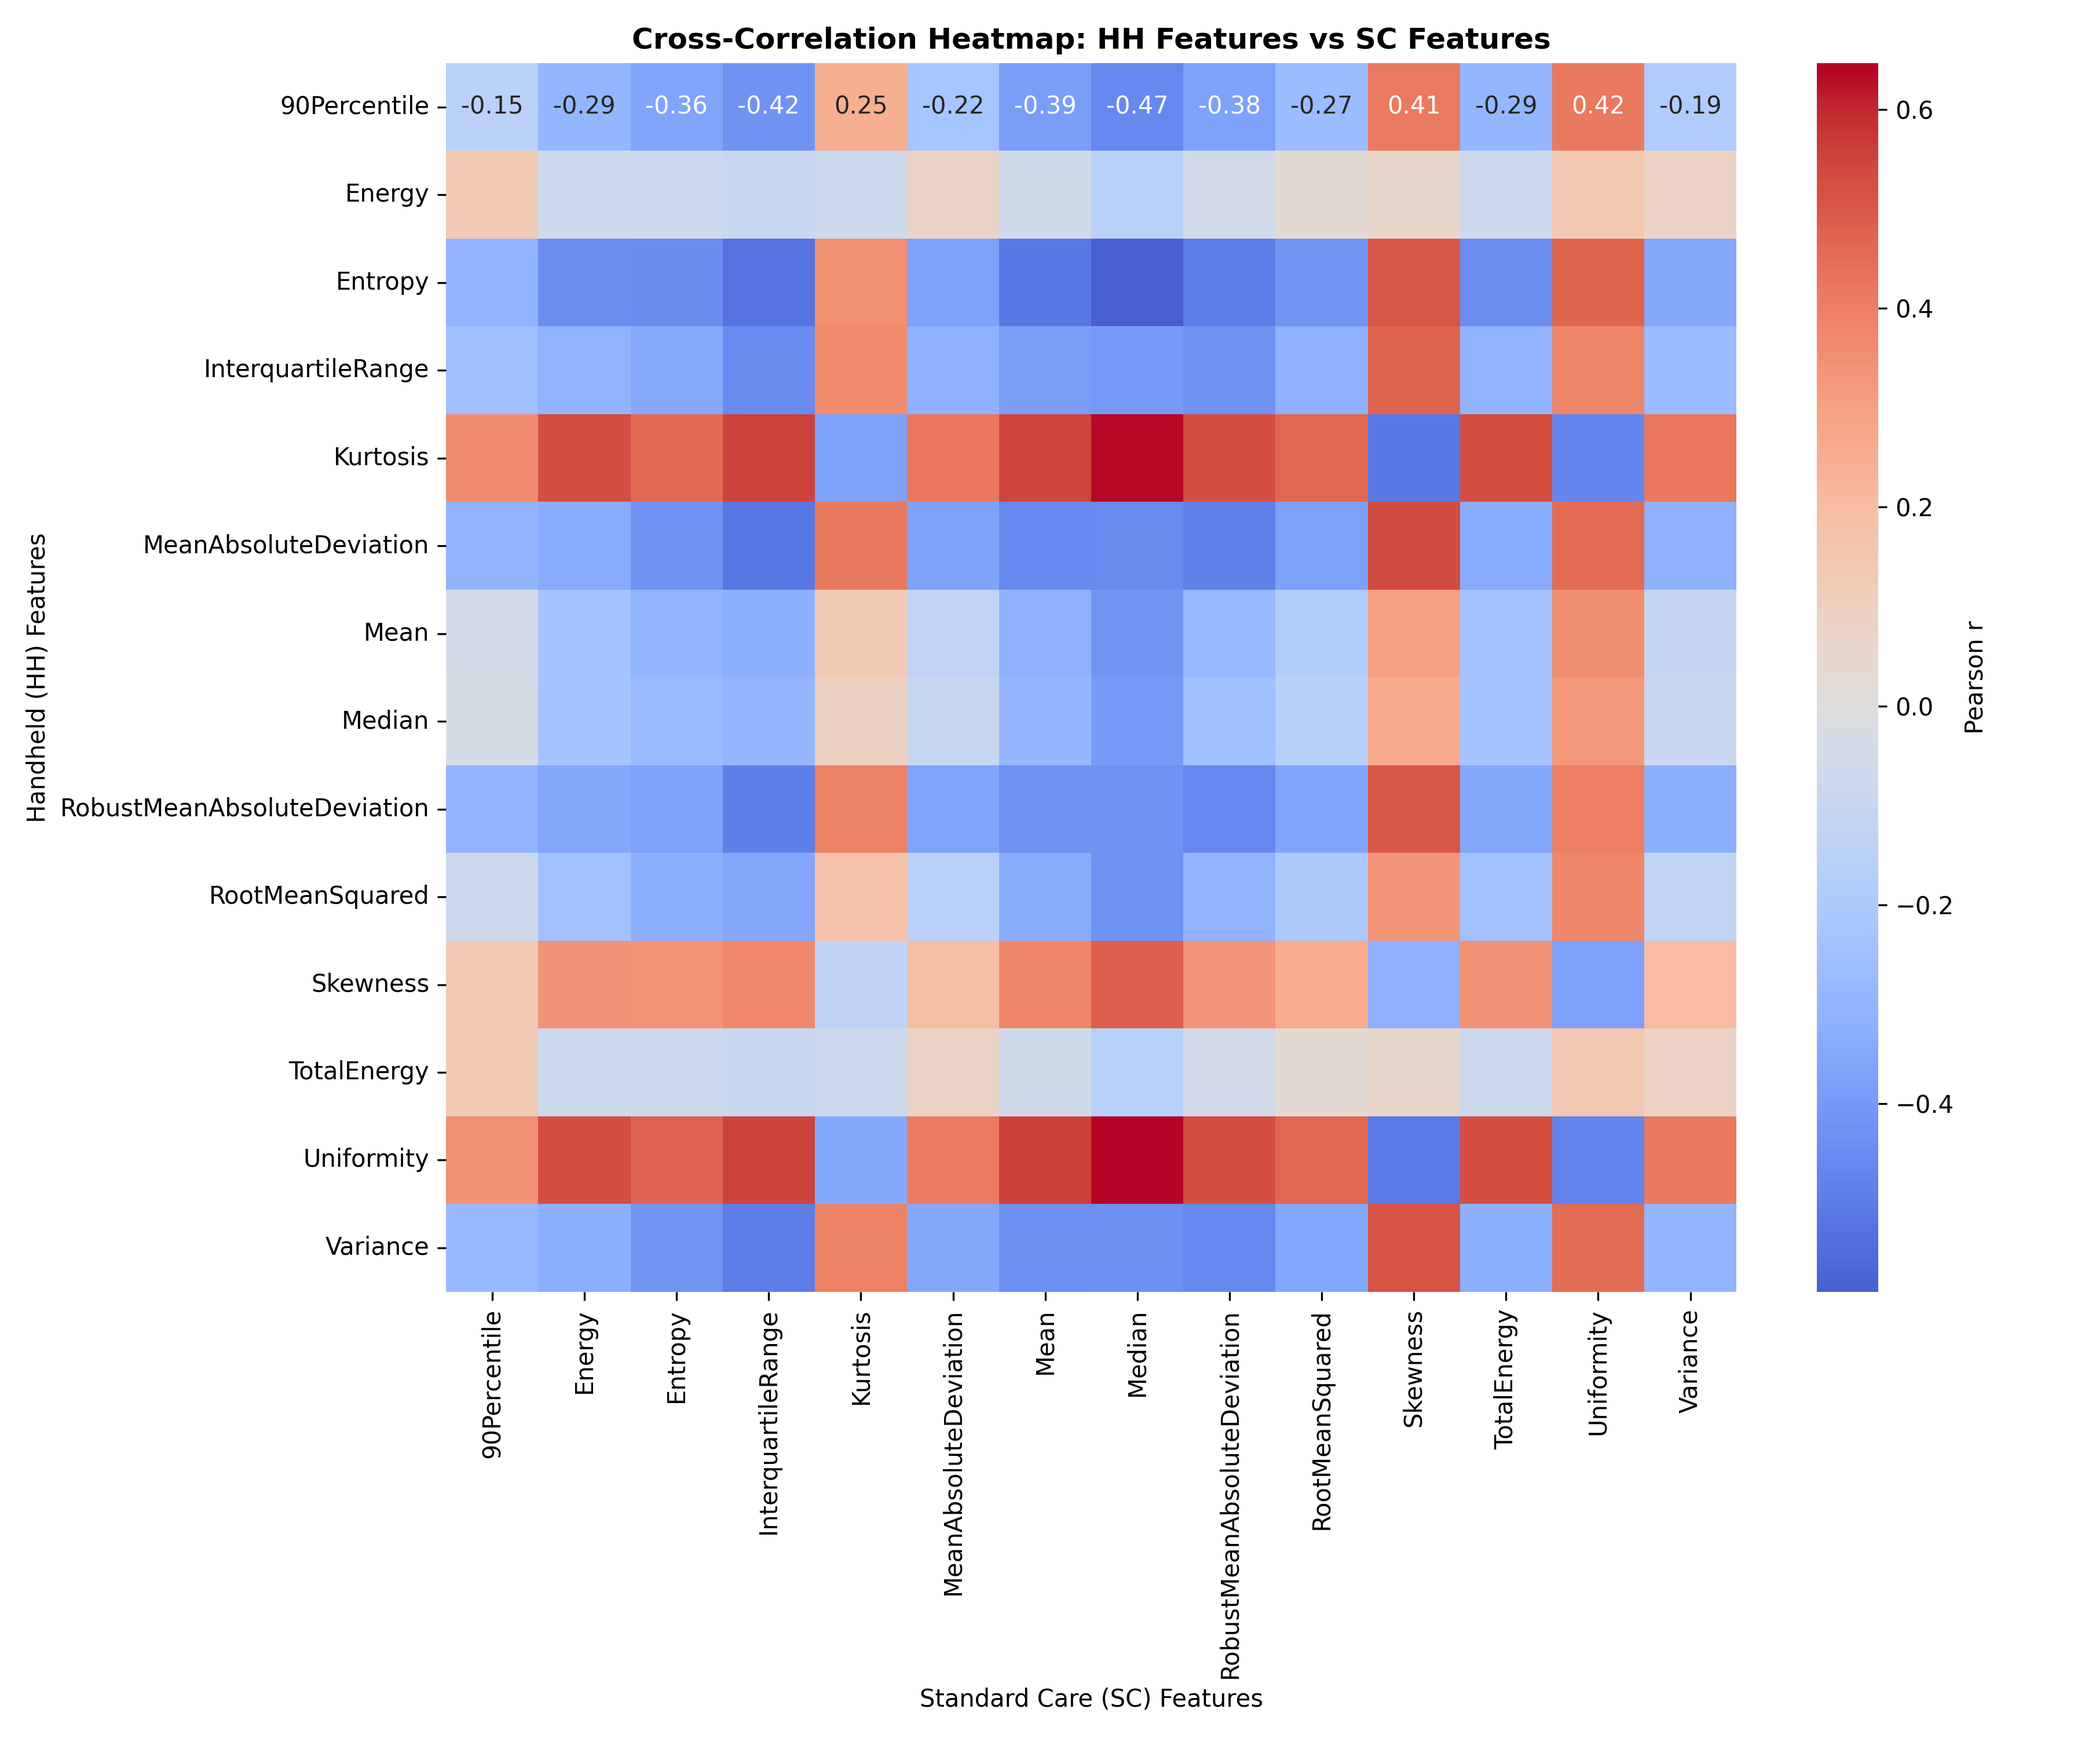
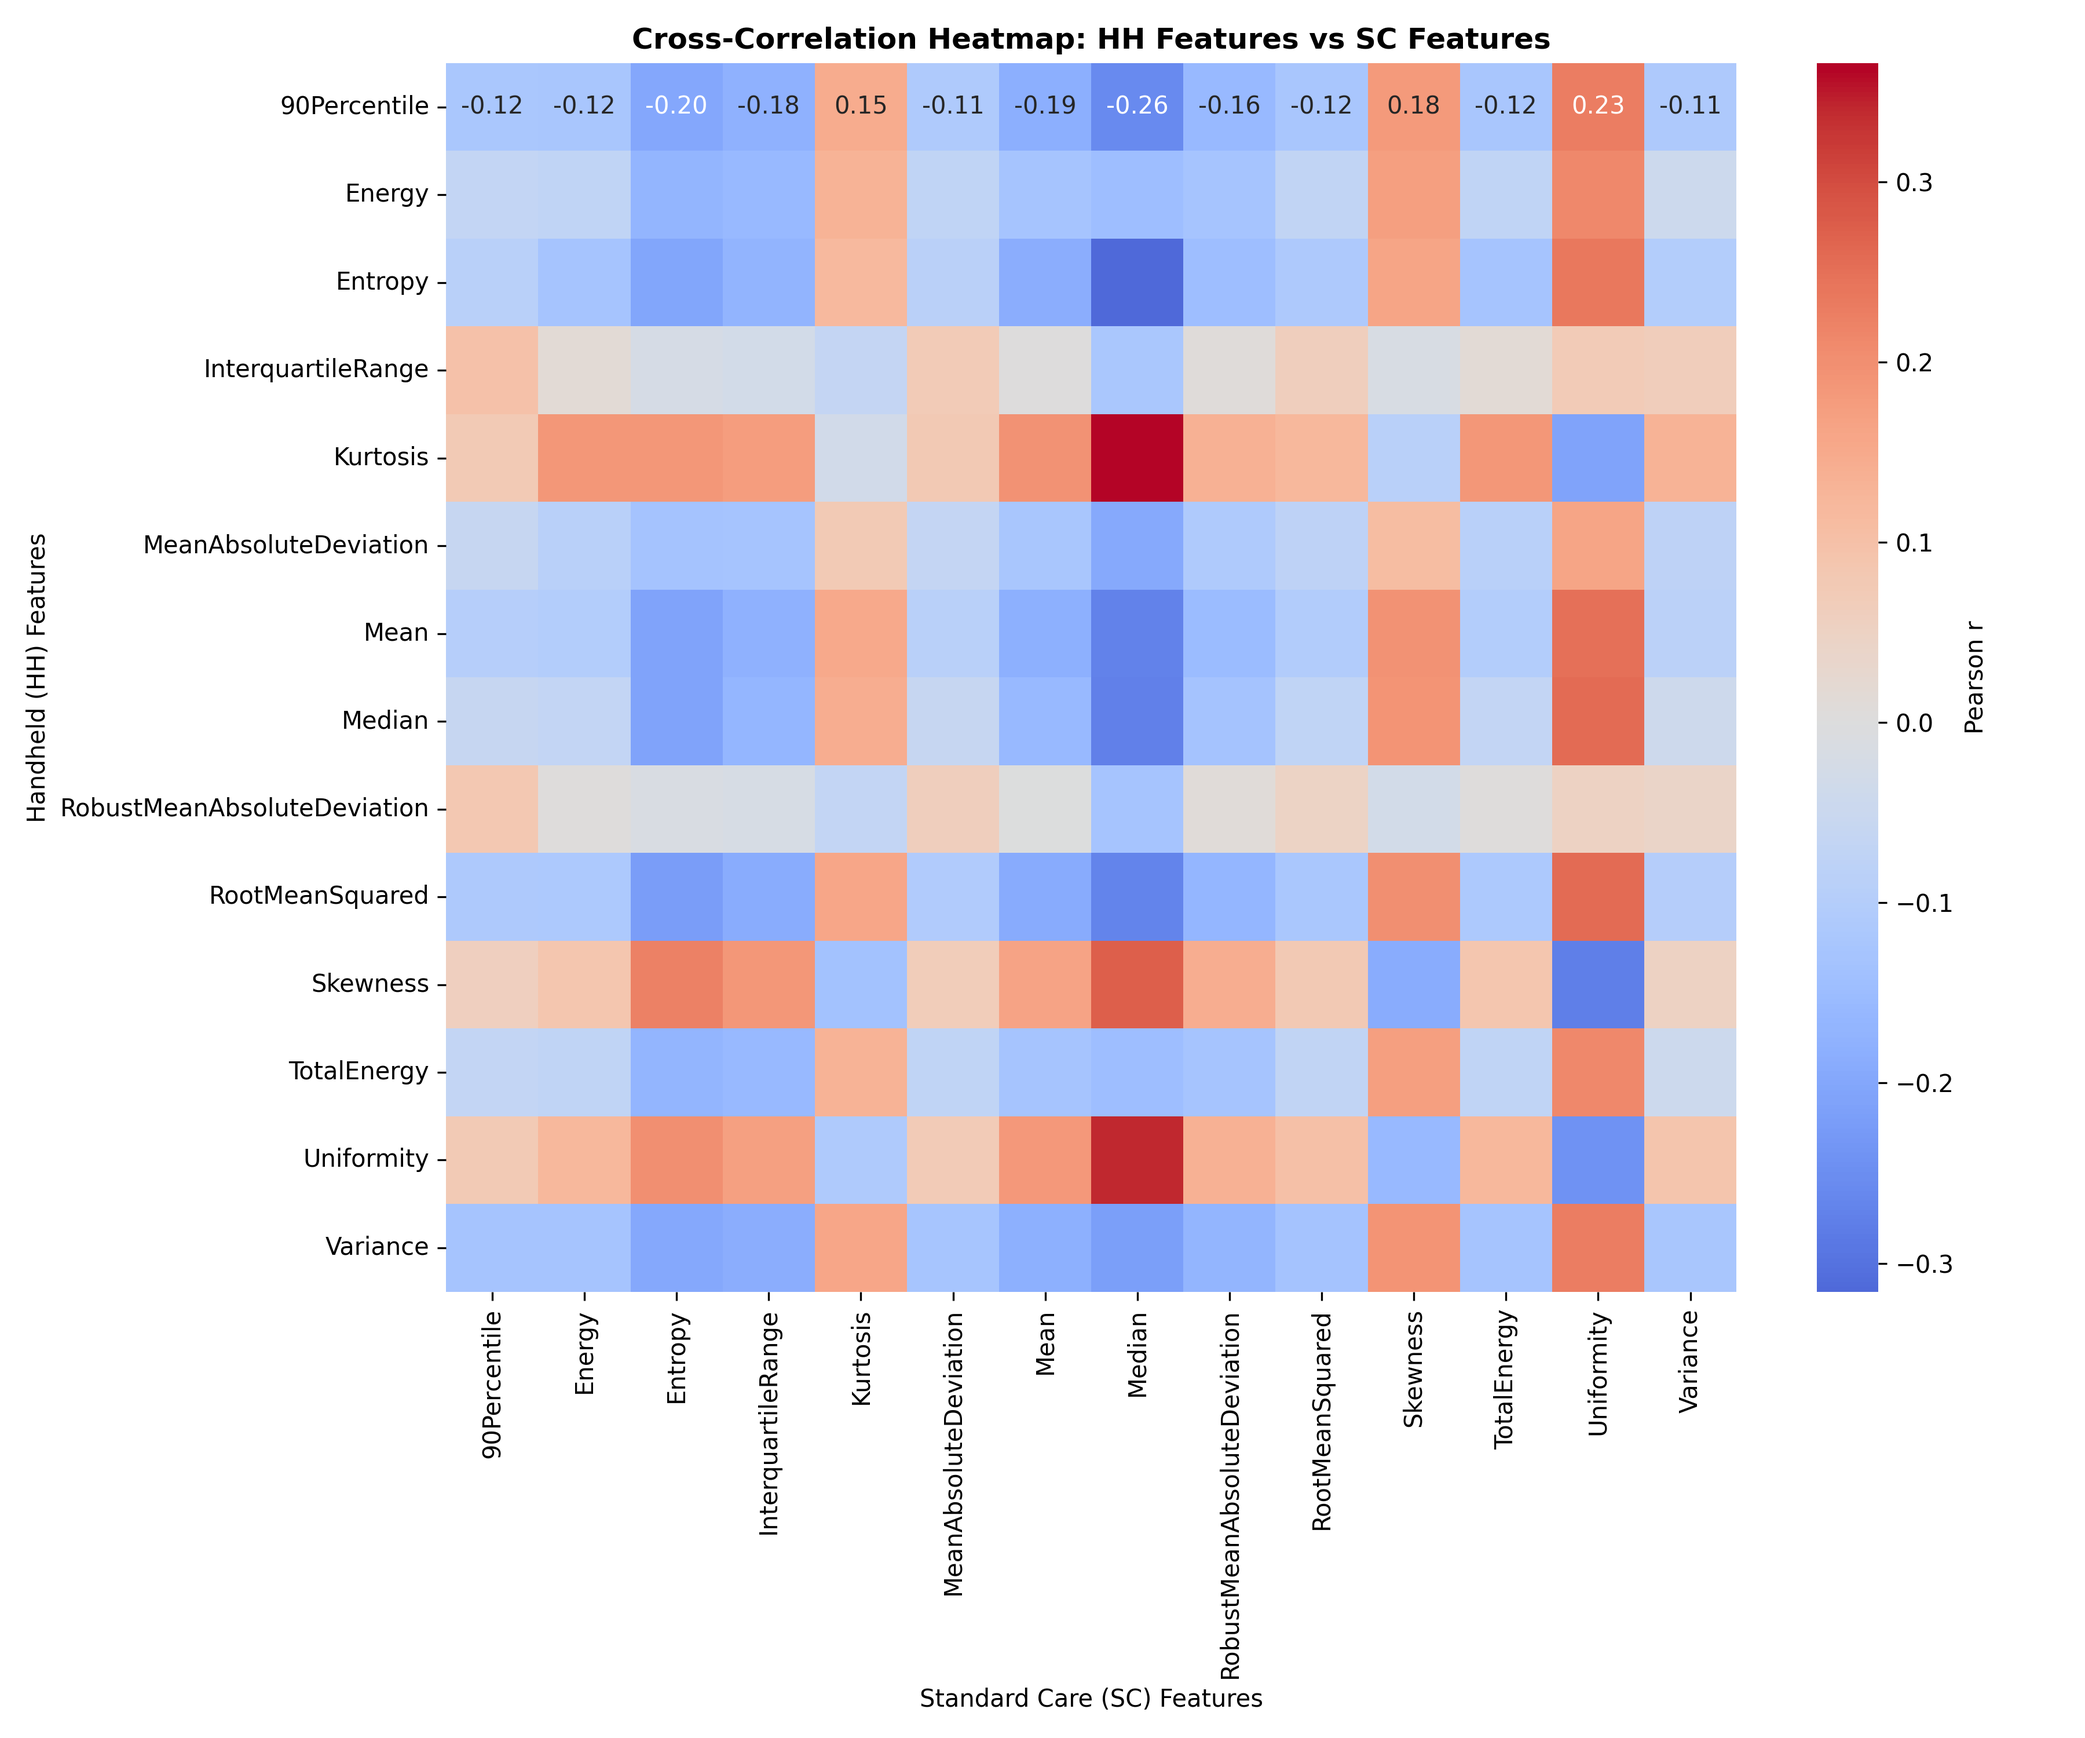
Refine radiomics pairing: match by view suffix (e.g. Sagital Sac 1)

diff --git a/radiomics_comparison.py b/radiomics_comparison.py
@@ -66,7 +66,7 @@ def extract_first_order_features(sitk_img):
     return extractor.execute()
 
 def find_paired_images():
-    """Identifies folders with paired HH and SC images."""
+    """Identifies folders with paired HH and SC images by matching suffixes."""
     pairs = []
     if not os.path.isdir(EP_IMG):
         return []
@@ -79,25 +79,32 @@ def find_paired_images():
         case_no = int(m.group())
         
         files = os.listdir(full)
-        hh_imgs = [os.path.join(full, f) for f in files 
-                   if f.upper().startswith("HH") and f.lower().endswith(('.png', '.jpg', '.jpeg', '.dcm'))]
-        sc_imgs = [os.path.join(full, f) for f in files 
-                   if f.upper().startswith("SC") and f.lower().endswith('.dcm')]
         
-        if hh_imgs and sc_imgs:
-            # For simplicity, pick representative pairs (e.g., uterus or first available)
-            def pick_best(paths):
-                for kw in ["uterus", "sac", "sagital", "embryo"]:
-                    for p in paths:
-                        if kw in os.path.basename(p).lower():
-                            return p
-                return paths[0]
-            
-            pairs.append({
-                "Case No": case_no,
-                "hh_path": pick_best(hh_imgs),
-                "sc_path": pick_best(sc_imgs)
-            })
+        # 1. Map HH images by their suffix (text after "HH ")
+        hh_map = {}
+        for f in files:
+            if f.upper().startswith("HH") and f.lower().endswith(('.png', '.jpg', '.jpeg', '.dcm')):
+                suffix = _re.sub(r"^HH\s*", "", f, flags=_re.IGNORECASE)
+                suffix = os.path.splitext(suffix)[0].strip().lower()
+                hh_map[suffix] = os.path.join(full, f)
+        
+        # 2. Map SC images by their suffix (text after "SC ")
+        sc_map = {}
+        for f in files:
+            if f.upper().startswith("SC") and f.lower().endswith('.dcm'):
+                suffix = _re.sub(r"^SC\s*", "", f, flags=_re.IGNORECASE)
+                suffix = os.path.splitext(suffix)[0].strip().lower()
+                sc_map[suffix] = os.path.join(full, f)
+        
+        # 3. Pair them up where suffixes match
+        for sfx, hh_path in hh_map.items():
+            if sfx in sc_map:
+                pairs.append({
+                    "Case No": case_no,
+                    "Suffix": sfx,
+                    "hh_path": hh_path,
+                    "sc_path": sc_map[sfx]
+                })
     return pairs
 
 def main():
@@ -122,7 +129,7 @@ def main():
             print(f"  Extracting SC features...")
             feat_sc = extract_first_order_features(sitk_sc)
             
-            row = {"Case No": case}
+            row = {"Case No": case, "Suffix": pair["Suffix"]}
             for k, v in feat_hh.items():
                 # cast to float scalar to avoid numpy array issues in pandas
                 row[f"HH_{k}"] = float(v)
